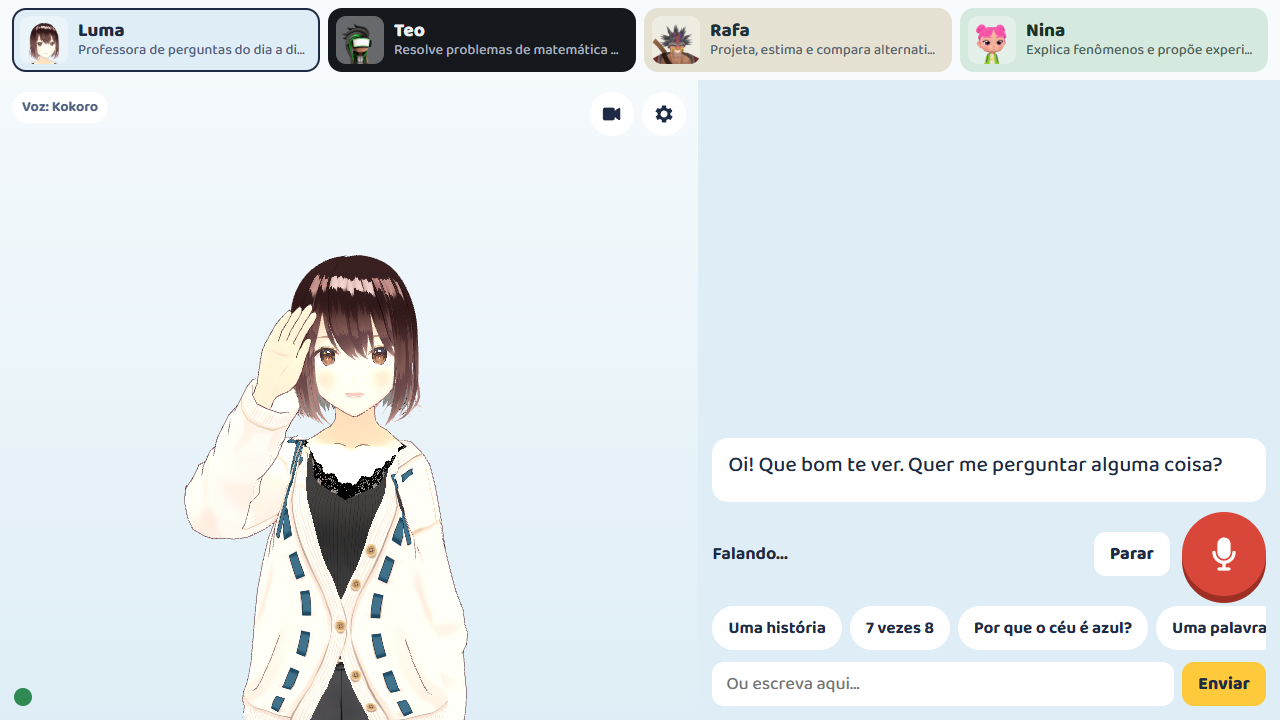
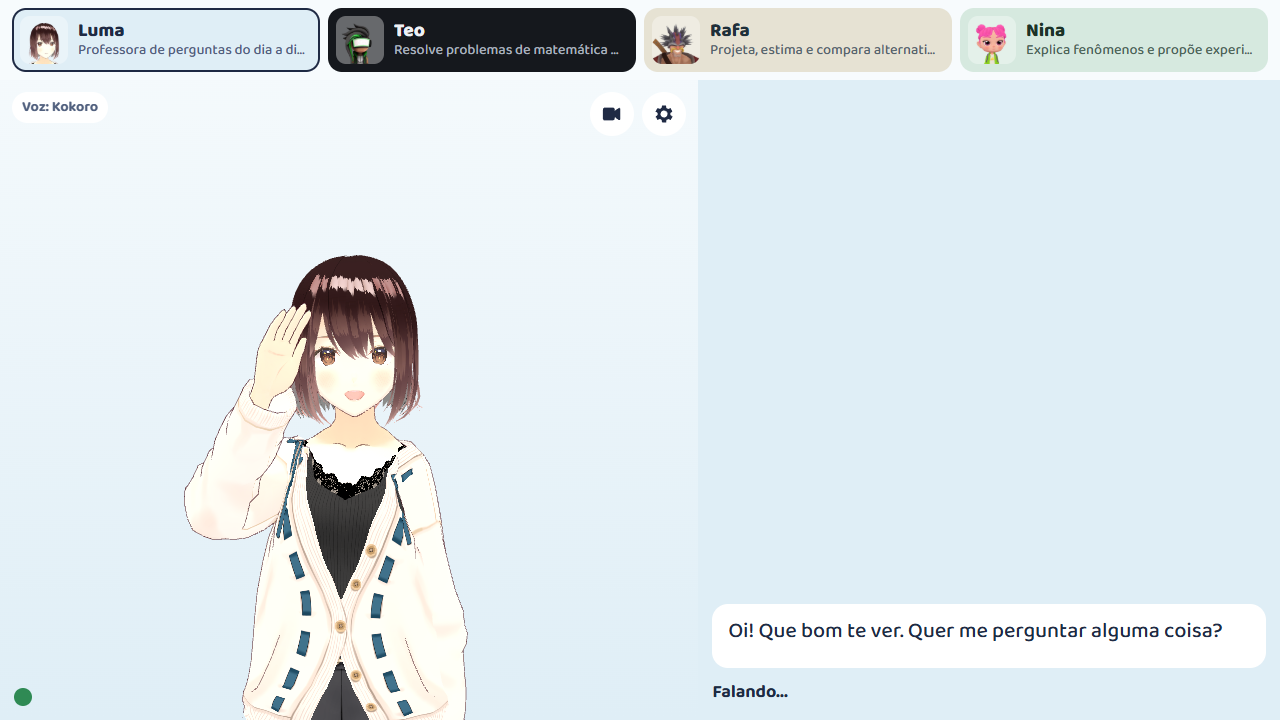
Fluxo de sessão com consentimento de microfone (P5)
Atração, cumprimento, consentimento, conversa, despedida e limpeza, cada etapa
com um único próximo passo. Microfone desligado por padrão. Textos novos em
src/strings.pt-BR.js. Teste p5-fluxo em retrato e paisagem.

diff --git a/src/ui.js b/src/ui.js
@@ -17,6 +17,7 @@ import { URL_PADRAO } from './tts/kokoro-server.js';
 import { criarDivisor, limparParaFala } from './tts/frases.js';
 import { criarOuvido } from './ouvido.js';
 import { ler, gravar, lerJSON, gravarJSON } from './storage.js';
+import { T } from './strings.pt-BR.js';
 
 const $ = (id) => document.getElementById(id);
 const app = $('app'), stage = $('stage'), elStatus = $('status'), elHeard = $('heard'), elAnswer = $('answer');
@@ -183,6 +184,7 @@ async function trocarPersonagem(p) {
   document.title = `${p.nome} 3D`;
   micBtn.setAttribute('aria-label', `Falar com ${p.nome}`);
   marcarCardAtivo(p.id);
+  if (etapa === 'atracao') definirEtapa('atracao'); // o convite usa o nome do personagem
   renderizarAtalhos(p.atalhos);
   voz.resolverMotor(p.voz);
   const hist = historicoDe(p.id);
@@ -259,7 +261,7 @@ function renderizarAtalhos(atalhos) {
 const voz = criarVoz({
   config,
   aoComecarFala: () => { falando = true; definirEstado('speaking'); },
-  aoTerminarFala: () => { falando = false; if (!ocupado) estadoOcioso(); liberarGesto(); tocarInatividade(); },
+  aoTerminarFala: () => { falando = false; if (!ocupado) estadoOcioso(); liberarGesto(); tocarInatividade(); avancarDepoisDaFala(); },
   aoFimFrase: () => liberarGesto(),
   // Gesto marcado pelo LLM numa sentença: pedido no instante em que essa sentença começa a tocar.
   aoInicioFrase: (gestos) => { for (const g of gestos) pedirGesto(g, 'llm', { naFronteira: true }); },
@@ -333,6 +335,71 @@ function liberarGesto() {
   if (c) executarGesto(c, 'fronteira');
 }
 
+/* ---------- Fluxo de sessão (P5) ---------- */
+// atracao -> cumprimento -> consentimento -> conversa -> despedida -> (limpeza) -> atracao.
+// Cada etapa mostra um único próximo passo. O microfone começa desligado e só existe se a pessoa aceitar.
+const elPasso = { caixa: $('passo'), titulo: $('passoTitulo'), texto: $('passoTexto'), nota: $('passoNota'), acao: $('passoAcao'), alt: $('passoAlt') };
+const usarVozBtn = $('usarVoz');
+let etapa = 'atracao', microfone = null, timerEtapa = null; // microfone: null (não perguntado), 'sim', 'nao'
+
+function definirEtapa(e) {
+  etapa = e;
+  app.dataset.etapa = e;
+  clearTimeout(timerEtapa);
+  app.dataset.microfone = microfone === 'sim' ? 'sim' : 'nao';
+  usarVozBtn.hidden = !(e === 'conversa' && microfone === 'nao');
+  usarVozBtn.textContent = T.etapas.conversa.mudarParaVoz;
+  const p = personagem ? personagem.nome : '';
+  if (e === 'atracao') {
+    mostrarPasso(T.etapas.atracao.titulo(p), T.etapas.atracao.texto, '', T.etapas.atracao.acao, null);
+  } else if (e === 'consentimento') {
+    const c = T.etapas.consentimento;
+    mostrarPasso(c.titulo, c.texto, camera.ligada ? c.camLigada : c.camDesligada, c.acao, c.alternativa);
+  } else {
+    elPasso.caixa.hidden = true;
+  }
+  // Etapas que esperam o fim de uma fala têm um limite, para nunca travarem sem voz.
+  if (e === 'cumprimento') timerEtapa = setTimeout(() => { if (etapa === 'cumprimento') definirEtapa(microfone ? 'conversa' : 'consentimento'); }, 8000);
+  if (e === 'despedida') timerEtapa = setTimeout(() => { if (etapa === 'despedida') voltarParaAtracao(); }, 8000);
+}
+
+function mostrarPasso(titulo, texto, nota, acao, alt) {
+  elPasso.titulo.textContent = titulo;
+  elPasso.texto.textContent = texto;
+  elPasso.nota.textContent = nota;
+  elPasso.nota.hidden = !nota;
+  elPasso.acao.textContent = acao;
+  elPasso.alt.textContent = alt || '';
+  elPasso.alt.hidden = !alt;
+  elPasso.caixa.hidden = false;
+}
+
+// Chamado quando uma fala termina (aoTerminarFala).
+function avancarDepoisDaFala() {
+  if (etapa === 'cumprimento') definirEtapa(microfone ? 'conversa' : 'consentimento');
+  else if (etapa === 'despedida') voltarParaAtracao();
+}
+
+function voltarParaAtracao() {
+  microfone = null; // a próxima pessoa responde de novo
+  elHeard.textContent = '';
+  elAnswer.textContent = '';
+  definirEtapa('atracao');
+}
+
+elPasso.acao.addEventListener('click', () => {
+  voz.preparar();
+  if (etapa === 'atracao') iniciarSessao('toque');
+  else if (etapa === 'consentimento') { microfone = 'sim'; definirEtapa('conversa'); micBtn.focus(); }
+});
+elPasso.alt.addEventListener('click', () => {
+  if (etapa !== 'consentimento') return;
+  microfone = 'nao';
+  definirEtapa('conversa');
+  input.focus();
+});
+usarVozBtn.addEventListener('click', () => { microfone = 'sim'; definirEtapa('conversa'); micBtn.focus(); });
+
 /* ---------- Sessão: cumprimento e despedida ---------- */
 // Começa com rosto detectado após ausência, toque na tela ou botão do operador.
 // Termina pelo operador ou por inatividade: aceno, frase curta e limpeza do histórico.
@@ -372,6 +439,7 @@ function iniciarSessao(origem) {
   if (sessaoAtiva || !personagem || ocupado) return false;
   sessaoAtiva = true;
   app.dataset.sessao = 'ativa';
+  definirEtapa('cumprimento');
   acenarEFalar('cumprimento', origem, efetivo(personagem).oiPresenca);
   tocarInatividade();
   return true;
@@ -384,6 +452,7 @@ function encerrarSessao(origem) {
   clearTimeout(timerInatividade);
   if (abortCtl) abortCtl.abort();
   silenciar();
+  definirEtapa('despedida');
   acenarEFalar('despedida', origem, efetivo(personagem).despedida);
   // Limpeza: nenhuma conversa fica para a próxima pessoa.
   for (const h of historicos.values()) h.length = 0;
@@ -403,6 +472,7 @@ async function perguntarAoPersonagem(q) {
   q = (q || '').trim();
   if (!q || ocupado || !personagem) return;
   if (!sessaoAtiva) { sessaoAtiva = true; app.dataset.sessao = 'ativa'; }
+  if (etapa !== 'conversa') definirEtapa('conversa');
   tocarInatividade();
   if (!apiKey) { definirEstado('idle', 'Um adulto precisa colocar a chave do Gemini na engrenagem.'); dlg.showModal(); return; }
   const quem = personagem;
@@ -860,6 +930,9 @@ if (new URLSearchParams(location.search).has('debug')) {
     get catalogo() { return catalogo; },
     get diretor() { return diretor; },
     registroGestos, pedirGesto, iniciarSessao, encerrarSessao, medidasSessao,
+    get etapa() { return etapa; },
+    // Só para testes que não são do fluxo: pula atração, cumprimento e consentimento.
+    irParaConversa(mic = 'sim') { sessaoAtiva = true; microfone = mic; definirEtapa('conversa'); },
     get sessaoAtiva() { return sessaoAtiva; },
   };
 }
@@ -883,6 +956,7 @@ if (!disponiveis.length) {
   // Depois da carga do .vrm: o parse ocupa a thread principal e estouraria o tempo limite.
   await voz.verificarServidor();
   if (personagem) prepararFrasesFixas(personagem); // agora o motor (Kokoro ou sistema) já é conhecido
+  if (etapa === 'atracao') definirEtapa('atracao'); // um teste pode já ter pulado para a conversa
   prepararMiniaturas();
   await ouvido.preparar();
   estadoOcioso();

diff --git a/tests/e2e/p5-fluxo.spec.js b/tests/e2e/p5-fluxo.spec.js
@@ -1,0 +1,88 @@
+// P5: fluxo de sessão completo, em paisagem e retrato. Gemini simulado; voz pelo Kokoro local.
+// Captura cada etapa e confere o texto visível: sem travessão, sem abertura genérica, um próximo passo por etapa.
+import { test, expect } from '@playwright/test';
+
+const sseDe = (pedacos) => pedacos.map((p) => `data: ${JSON.stringify({ candidates: [{ content: { parts: [{ text: p }] } }] })}\r\n\r\n`).join('');
+const PROIBIDO = [/—/, /Claro!/i, /Ótima pergunta/i, /Com certeza!/i, /no mundo de hoje/i];
+
+async function textoVisivel(page) {
+  return page.evaluate(() => document.getElementById('app').innerText);
+}
+async function botoesVisiveis(page) {
+  return page.evaluate(() => [...document.querySelectorAll('#painel button')].filter((b) => b.offsetParent !== null).map((b) => b.textContent.trim() || b.getAttribute('aria-label')));
+}
+
+for (const [nome, viewport] of [['paisagem', { width: 1280, height: 720 }], ['retrato', { width: 720, height: 1280 }]]) {
+  test(`P5 fluxo (${nome})`, async ({ page }) => {
+    await page.setViewportSize(viewport);
+    const erros = [];
+    page.on('pageerror', (e) => erros.push(e.message));
+    await page.addInitScript(() => {
+      localStorage.clear();
+      localStorage.setItem('prof3d_gemini_key', 'chave-falsa');
+      localStorage.setItem('prof3d_personagem', 'luma');
+    });
+    await page.route('**/generativelanguage.googleapis.com/**', (rota) => rota.fulfill({
+      status: 200, contentType: 'text/event-stream', body: sseDe(['O céu é azul porque a luz azul se espalha mais no ar.']),
+    }));
+    await page.goto('/?debug');
+    await page.waitForFunction(() => !!(window.__prof3d && window.__prof3d.avatar) && window.__prof3d.voz.frasesProntas >= 4, null, { timeout: 60_000 });
+    const textos = [];
+
+    // 1. Atração: um botão no painel ("Começar"), sem conversa, sem microfone.
+    await expect(page.locator('#passo')).toBeVisible();
+    await expect(page.locator('#passoTitulo')).toHaveText('Luma está aqui');
+    expect(await botoesVisiveis(page)).toEqual(['Começar']);
+    textos.push(await textoVisivel(page));
+    await page.screenshot({ path: `relatorios/p5-1-atracao-${nome}.png` });
+
+    // 2. Cumprimento: some o convite, aparece a fala.
+    await page.click('#passoAcao');
+    await expect(page.locator('#answer')).toContainText('Que bom te ver');
+    expect(await page.evaluate(() => window.__prof3d.etapa)).toBe('cumprimento');
+    await page.waitForTimeout(1200);
+    textos.push(await textoVisivel(page));
+    await page.screenshot({ path: `relatorios/p5-2-cumprimento-${nome}.png` });
+
+    // 3. Consentimento: depois da fala. Um botão principal e uma alternativa.
+    await expect(page.locator('#passoTitulo')).toHaveText('Posso ouvir você?', { timeout: 20_000 });
+    expect(await botoesVisiveis(page)).toEqual(['Usar o microfone', 'Prefiro escrever']);
+    await expect(page.locator('#passoNota')).toHaveText('A câmera está desligada.');
+    textos.push(await textoVisivel(page));
+    await page.screenshot({ path: `relatorios/p5-3-consentimento-${nome}.png` });
+
+    // 4. Conversa: com microfone.
+    await page.click('#passoAcao');
+    await expect(page.locator('#mic')).toBeVisible();
+    await expect(page.locator('#mic')).toBeFocused();
+    await page.fill('#text', 'Por que o céu é azul?');
+    await page.click('#form button[type=submit]');
+    await page.waitForFunction(() => (window.__prof3d.historicos.get('luma') || []).length === 2, null, { timeout: 30_000 });
+    await page.waitForFunction(() => window.__prof3d.estado === 'idle', null, { timeout: 30_000 });
+    textos.push(await textoVisivel(page));
+    await page.screenshot({ path: `relatorios/p5-4-conversa-${nome}.png` });
+
+    // 5. Despedida e limpeza: volta à atração, conversa apagada, microfone esquecido.
+    await page.evaluate(() => window.__prof3d.encerrarSessao('operador'));
+    await expect(page.locator('#answer')).toContainText('Tchau');
+    expect(await page.evaluate(() => window.__prof3d.etapa)).toBe('despedida');
+    await page.waitForTimeout(1200);
+    textos.push(await textoVisivel(page));
+    await page.screenshot({ path: `relatorios/p5-5-despedida-${nome}.png` });
+    await expect.poll(() => page.evaluate(() => window.__prof3d.etapa), { timeout: 20_000 }).toBe('atracao');
+    expect(await page.evaluate(() => window.__prof3d.historicos.get('luma').length)).toBe(0);
+    await expect(page.locator('#answer')).toHaveText('');
+    await page.screenshot({ path: `relatorios/p5-6-limpeza-${nome}.png` });
+
+    // 6. Segunda pessoa escolhe escrever: microfone some, aparece a opção de mudar de ideia.
+    await page.click('#passoAcao');
+    await expect(page.locator('#passoTitulo')).toHaveText('Posso ouvir você?', { timeout: 20_000 });
+    await page.click('#passoAlt');
+    await expect(page.locator('#mic')).toBeHidden();
+    await expect(page.locator('#text')).toBeFocused();
+    await expect(page.locator('#usarVoz')).toBeVisible();
+
+    for (const t of textos) for (const re of PROIBIDO) expect(t, `texto proibido ${re}`).not.toMatch(re);
+    expect(erros).toEqual([]);
+  });
+}

diff --git a/index.html b/index.html
@@ -187,6 +187,34 @@
   .quadro-contas-bloco h3 { margin: 8px 0 2px; font: 700 .8rem "Baloo 2", system-ui, sans-serif; color: var(--tinta-suave); }
   .quadro-contas li { color: var(--tinta-suave); font-size: .85rem; }
   .quadro-contas li.erro { color: #b3261e; }
+  /* Fluxo de sessão (P5): atração, cumprimento, consentimento, conversa, despedida.
+     Em cada etapa só um próximo passo fica à vista; o resto do painel sai do caminho. */
+  .passo {
+    display: grid; gap: 6px; padding: 18px 20px; border-radius: 18px;
+    background: var(--cartao); color: var(--tinta);
+  }
+  .passo[hidden] { display: none; }
+  .passo h2 { margin: 0; font-size: 1.55rem; font-weight: 800; line-height: 1.15; }
+  .passo p { margin: 0; font-size: 1.05rem; line-height: 1.4; color: var(--tinta-suave); max-width: 42ch; }
+  .passo-acoes { display: flex; flex-wrap: wrap; gap: 10px; align-items: center; margin-top: 10px; }
+  .passo-acoes .btn { min-height: 60px; padding: 0 26px; font-size: 1.15rem; background: var(--acao); color: #fff; box-shadow: 0 5px 0 var(--acao-sombra); }
+  .passo-acoes .btn:active { transform: translateY(3px); box-shadow: 0 2px 0 var(--acao-sombra); }
+  .passo-acoes .alt {
+    font: inherit; font-weight: 700; font-size: 1rem; color: var(--tinta); background: none; border: 0;
+    min-height: var(--alvo); padding: 0 8px; cursor: pointer; text-decoration: underline; text-underline-offset: 4px;
+  }
+  .passo { animation: entra .22s ease-out both; }
+  @keyframes entra { from { opacity: 0; transform: translateY(8px); } }
+  @media (prefers-reduced-motion: reduce) { .passo { animation: none; } }
+  [data-etapa="atracao"] .panel > :not(.passo),
+  [data-etapa="consentimento"] .panel > :not(.passo) { display: none; }
+  [data-etapa="cumprimento"] .panel > :is(.chips, .typed),
+  [data-etapa="despedida"] .panel > :is(.chips, .typed),
+  [data-etapa="cumprimento"] :is(.mic, .stop), [data-etapa="despedida"] :is(.mic, .stop) { display: none; }
+  [data-microfone="nao"] .mic { display: none; }
+  .usar-voz { font: inherit; font-weight: 700; background: var(--cartao); color: var(--tinta); border: 0; border-radius: 12px; min-height: var(--alvo); padding: 0 14px; cursor: pointer; }
+  .usar-voz[hidden] { display: none; }
+
 
   dialog {
     border: 0; border-radius: 16px; padding: 18px; width: min(92vw, 480px); max-height: 90vh; overflow-y: auto;
@@ -268,7 +296,7 @@
 <script type="module" src="src/ui.js"></script>
 </head>
 <body>
-<main class="kiosk" id="app" data-state="idle">
+<main class="kiosk" id="app" data-state="idle" data-etapa="atracao">
   <nav class="elenco" id="elencoNav" aria-label="Personagens" hidden>
     <div class="elenco-lista" id="elenco"></div>
   </nav>
@@ -299,6 +327,15 @@
   </section>
 
   <section class="panel" id="painel">
+    <div class="passo" id="passo" role="region" aria-labelledby="passoTitulo" hidden>
+      <h2 id="passoTitulo"></h2>
+      <p id="passoTexto"></p>
+      <p id="passoNota"></p>
+      <div class="passo-acoes">
+        <button class="btn" id="passoAcao" type="button"></button>
+        <button class="alt" id="passoAlt" type="button" hidden></button>
+      </div>
+    </div>
     <div class="bubble" aria-live="polite">
       <p class="heard" id="heard"></p>
       <p class="answer" id="answer"></p>
@@ -306,6 +343,7 @@
     <div class="row">
       <p class="status" id="status">Preparando...</p>
       <button class="stop" id="stop" type="button" hidden>Parar</button>
+      <button class="usar-voz" id="usarVoz" type="button" hidden></button>
       <button class="mic" id="mic" type="button" aria-label="Falar" disabled>
         <svg viewBox="0 0 24 24" fill="currentColor" aria-hidden="true"><path d="M12 15a4 4 0 0 0 4-4V6a4 4 0 0 0-8 0v5a4 4 0 0 0 4 4zm7-4a1 1 0 1 0-2 0 5 5 0 0 1-10 0 1 1 0 1 0-2 0 7 7 0 0 0 6 6.92V20H9a1 1 0 1 0 0 2h6a1 1 0 1 0 0-2h-2v-2.08A7 7 0 0 0 19 11z"/></svg>
       </button>

diff --git a/src/strings.pt-BR.js b/src/strings.pt-BR.js
@@ -1,0 +1,29 @@
+// Textos da interface em um lugar só (REPERTORIO 26.8). Sem travessão, sem emoji, frases curtas.
+// O P5 começou este arquivo com o fluxo de sessão; os demais textos de ui.js vêm para cá no P9.
+// Funções recebem o nome do personagem quando o texto depende dele.
+
+export const T = {
+  etapas: {
+    atracao: {
+      titulo: (nome) => `${nome} está aqui`,
+      texto: 'Toque para começar uma conversa.',
+      acao: 'Começar',
+    },
+    consentimento: {
+      titulo: 'Posso ouvir você?',
+      // Verdade sobre o reconhecimento de voz: no Chrome e no Edge o áudio vai ao serviço do navegador
+      // para virar texto. Por isso a frase fala do totem, não de "nada sai daqui".
+      texto: 'O microfone só liga quando você aperta o botão vermelho. Nada fica gravado neste totem.',
+      camDesligada: 'A câmera está desligada.',
+      camLigada: 'A câmera só percebe se tem alguém aqui. A imagem não é gravada nem enviada.',
+      acao: 'Usar o microfone',
+      alternativa: 'Prefiro escrever',
+    },
+    conversa: {
+      mudarParaVoz: 'Usar o microfone',
+    },
+    despedida: {
+      apagando: 'Apagando a conversa...',
+    },
+  },
+};

diff --git a/tests/e2e/p3-gestos.spec.js b/tests/e2e/p3-gestos.spec.js
@@ -44,6 +44,7 @@ test('P3.2: marca inválida do LLM é ignorada; válida espera a fronteira da se
     status: 200, contentType: 'text/event-stream',
     body: sseDe(['[gesto:dancar-funk] O céu é azul porque a luz do sol se espalha no ar. ', 'A cor azul se espalha mais que as outras. [ges', 'to:comemora] Muito bem, ótima curiosidade!']),
   }));
+  await page.evaluate(() => window.__prof3d.irParaConversa());
   await page.fill('#text', 'Por que o céu é azul?');
   await page.click('#form button[type=submit]');
   await expect.poll(() => page.evaluate(() => window.__prof3d.registroGestos.map((r) => r.msg).join('|')), { timeout: 60_000 }).toMatch(/tocou "(sinal-paz|giro)" \(llm\)/);

diff --git a/tests/e2e/p4-sessao.spec.js b/tests/e2e/p4-sessao.spec.js
@@ -50,6 +50,8 @@ test('P4: cumprimento por toque, conversa, despedida pelo operador; e despedida 
 
   // 3. Conversa.
   await page.waitForFunction(() => window.__prof3d.estado === 'idle', null, { timeout: 30_000 });
+  // P5: depois do cumprimento vem o consentimento; aqui a pessoa prefere escrever.
+  await page.click('#passoAlt');
   await page.fill('#text', 'Quanto é 7 vezes 8?');
   await page.click('#form button[type=submit]');
   await page.waitForFunction(() => (window.__prof3d.historicos.get('luma') || []).length === 2, null, { timeout: 30_000 });

diff --git a/tests/e2e/gemini-real.spec.js b/tests/e2e/gemini-real.spec.js
@@ -40,7 +40,8 @@ test.describe('Gemini real', () => {
       localStorage.setItem('prof3d_motor', 'webspeech'); // sem esperar o Kokoro: o foco aqui é o cérebro
     }, CHAVE);
     await page.goto('/?debug');
-    await page.waitForFunction(() => window.__prof3d && window.__prof3d.avatar, null, { timeout: 60_000 });
+    await page.waitForFunction(() => !!(window.__prof3d && window.__prof3d.avatar), null, { timeout: 60_000 });
+    await page.evaluate(() => window.__prof3d.irParaConversa());
 
     const relatorio = [];
     for (const p of PROBLEMAS) {

diff --git a/tests/e2e/app.spec.js b/tests/e2e/app.spec.js
@@ -31,7 +31,8 @@ async function abrir(page, { chave = '', armazenamento = {} } = {}) {
     for (const [c, v] of Object.entries(extra)) localStorage.setItem('prof3d_' + c, v);
   }, { k: chave, extra: armazenamento });
   await page.goto('/?debug');
-  await page.waitForFunction(() => window.__prof3d && window.__prof3d.avatar, null, { timeout: 60_000 });
+  await page.waitForFunction(() => !!(window.__prof3d && window.__prof3d.avatar), null, { timeout: 60_000 });
+  await page.evaluate(() => window.__prof3d.irParaConversa());
   return erros;
 }
 

diff --git a/tests/e2e/m5.spec.js b/tests/e2e/m5.spec.js
@@ -26,7 +26,8 @@ async function abrir(page, armazenamento = {}) {
     for (const [c, v] of Object.entries(extra)) localStorage.setItem('prof3d_' + c, v);
   }, armazenamento);
   await page.goto('/?debug');
-  await page.waitForFunction(() => window.__prof3d && window.__prof3d.avatar, null, { timeout: 60_000 });
+  await page.waitForFunction(() => !!(window.__prof3d && window.__prof3d.avatar), null, { timeout: 60_000 });
+  await page.evaluate(() => window.__prof3d.irParaConversa());
   return erros;
 }
 

diff --git a/REPERTORIO.md b/REPERTORIO.md
@@ -265,6 +265,7 @@ Formato: `AAAA-MM-DD | o que testou | resultado | decisão`
 - 2026-10-01 | aba "Enviar movimento" (pedido do dono, fora do prompt original) | .fbx do Mixamo convertido no navegador com o exemplo oficial `loadMixamoAnimation.js` do three-vrm v3.5.5 (MIT, copiado em src/vendor/mixamo); .vrma direto; arquivo guardado só no IndexedDB do navegador; "usar como" troca o clipe de um gesto. Testado com aceno2.fbx: converte, mede, vira o aceno e sobrevive ao recarregar | adotado. A distância pulso-rosto NÃO detecta mão na frente do rosto (aceno2 e sinal de paz dão valores parecidos nos 5 modelos), então esse aviso foi retirado: confere-se na prévia
 - 2026-10-01 | "fixar no lugar" (pedido do dono) | quadril preso no X/Z do primeiro quadro do idle, altura e rotação livres (agachar e giro continuam). VRMA_02 sai de 0,335 m de deslocamento para 0,000 m. Usar `normalizedRestPose` ou a pose do arquivo quebrava o M6.2 nos VRM 0.x (o idle tira o quadril da pose de descanso e a câmera é apontada com o idle aplicado) | adotado, ligado por padrão
 - 2026-10-01 | P4 sessão: toque, rosto ou operador iniciam; operador ou inatividade (90 s, configurável) encerram com aceno, frase e limpeza do histórico | gatilho até o gesto: 0 a 7 ms. Gesto até a fala: 2,1 a 2,9 s sem pré-síntese (Kokoro sintetizando); com cumprimento e despedida pré-sintetizados, 301 a 306 ms (5 medições com o quiosque ocioso). Logo após carregar a página, ainda com a pré-síntese rodando, chegou a 500 a 750 ms | pré-síntese adotada. O carregamento do personagem não acena mais sozinho; o aceno é da sessão
+- 2026-10-01 | P5 fluxo de sessão (atração, cumprimento, consentimento, conversa, despedida, limpeza), teste p5-fluxo em retrato e paisagem | um próximo passo por etapa; microfone começa desligado e só aparece se a pessoa aceitar; "Prefiro escrever" esconde o microfone e deixa um botão para mudar de ideia; limpeza esquece a escolha. Textos em src/strings.pt-BR.js | adotado. ATENÇÃO: o reconhecimento de voz do Chrome/Edge (SpeechRecognition) envia o áudio ao serviço do navegador; por isso a frase diz "Nada fica gravado neste totem", não "nada sai daqui". A skill impeccable só tem o SKILL.md instalado (sem scripts nem reference/): `impeccable context`, `shape`, `onboard`, `clarify` e `adapt` não rodaram como comandos
 - 2026-10-01 | galeria no painel (Tocar, Pausar, Velocidade, Ligado, Ok para criança) com Playwright em retrato e paisagem | passou; escolha persiste após recarregar | a prévia usa o enquadramento do rosto, então clipes de corpo inteiro aparecem cortados (ver problemas conhecidos)
 
 ---
